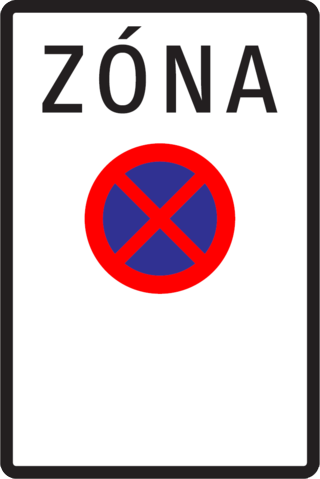
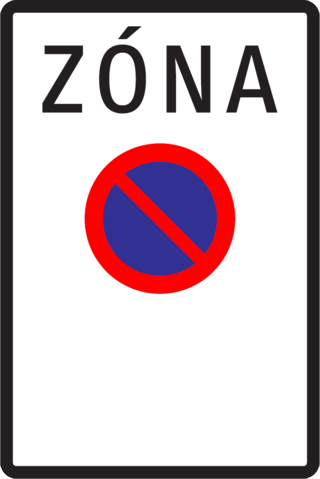
Fixed two bad road signs

Changed region(s): [[0.3438, 0.3507, 0.6562, 0.5553]]

diff --git a/Android/app/src/main/java/com/spiraclestudios/autoskola/repository/ChangelogListRepository.java b/Android/app/src/main/java/com/spiraclestudios/autoskola/repository/ChangelogListRepository.java
@@ -27,6 +27,7 @@ public class ChangelogListRepository {
     changelog_12.add(new Changelog(ADDED, R.string.changelog__text__changes_in_v12__added__immediate_score));
     changelog_12.add(new Changelog(CHANGED, R.string.changelog__text__changes_in_v12__changed__smoother_theme_switching));
     changelog_12.add(new Changelog(CHANGED, R.string.changelog__text__changes_in_v12__changed__improved_look));
+    changelog_12.add(new Changelog(FIXED, R.string.changelog__text__changes_in_v12__fixed__road_signs));
     changelog_12.add(new Changelog(FIXED, R.string.changelog__text__changes_in_v12__fixed__history_delete_all));
     changelogMap.put(12, changelog_12);
   }

diff --git a/Android/app/src/main/java/com/spiraclestudios/autoskola/BaseApplication.java b/Android/app/src/main/java/com/spiraclestudios/autoskola/BaseApplication.java
@@ -27,7 +27,7 @@ public class BaseApplication extends MultiDexApplication {
 
   public static boolean STRICT_MODE = false;
   // Increment when the Glide disk cache needs to be invalidated after image assets were updated.
-  public static final int GLIDE_DISK_CACHE_VERSION = 1;
+  public static final int GLIDE_DISK_CACHE_VERSION = 2;
 
   private RefWatcher mRefWatcher;
 
